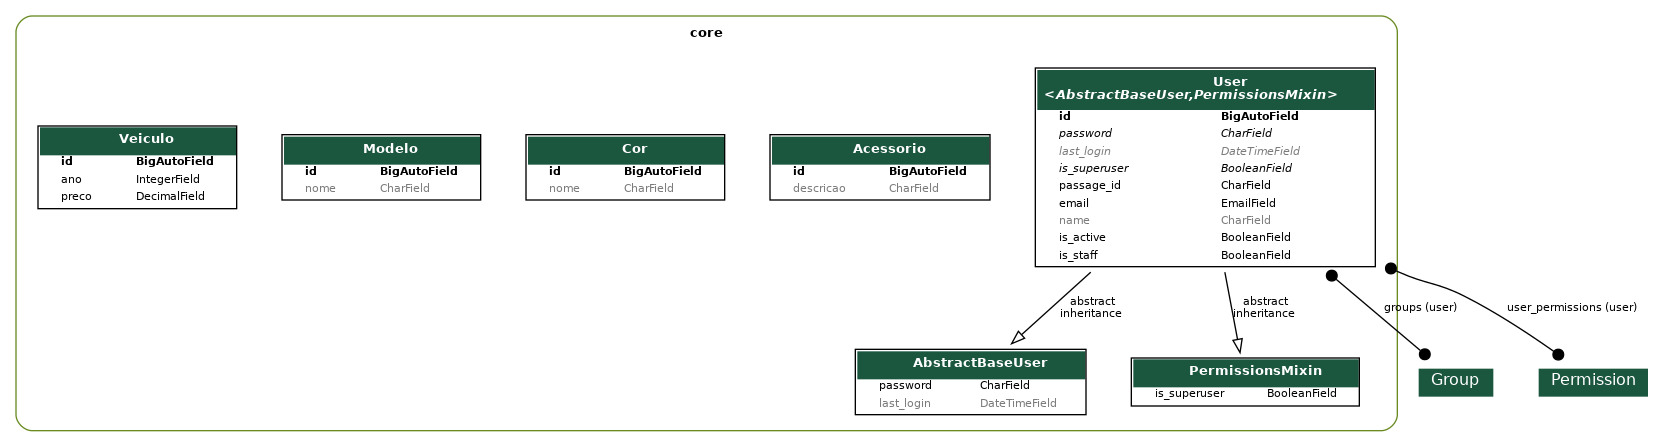
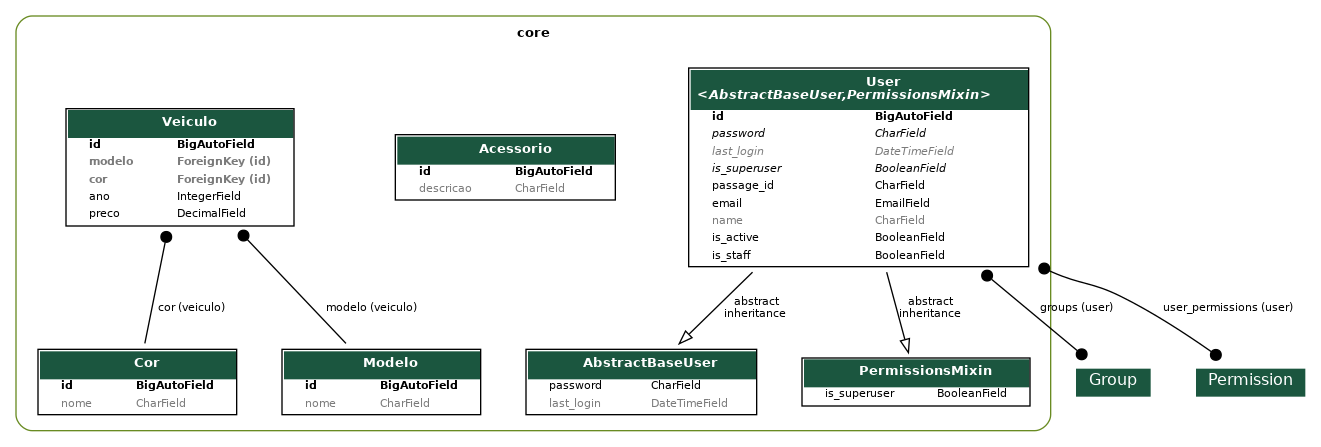
feat: inclusão do relacionamento de Veiculo com Modelo e Cor

diff --git a/core/migrations/0011_veiculo_cor_veiculo_modelo.py b/core/migrations/0011_veiculo_cor_veiculo_modelo.py
@@ -1,0 +1,24 @@
+# Generated by Django 5.1.7 on 2025-04-25 18:08
+
+import django.db.models.deletion
+from django.db import migrations, models
+
+
+class Migration(migrations.Migration):
+
+    dependencies = [
+        ('core', '0010_veiculo_remove_modelo_categoria_remove_modelo_marca'),
+    ]
+
+    operations = [
+        migrations.AddField(
+            model_name='veiculo',
+            name='cor',
+            field=models.ForeignKey(blank=True, null=True, on_delete=django.db.models.deletion.PROTECT, related_name='veiculos', to='core.cor'),
+        ),
+        migrations.AddField(
+            model_name='veiculo',
+            name='modelo',
+            field=models.ForeignKey(blank=True, null=True, on_delete=django.db.models.deletion.PROTECT, related_name='veiculos', to='core.modelo'),
+        ),
+    ]

diff --git a/core/migrations/0012_alter_veiculo_cor_alter_veiculo_modelo.py b/core/migrations/0012_alter_veiculo_cor_alter_veiculo_modelo.py
@@ -1,0 +1,24 @@
+# Generated by Django 5.1.7 on 2025-04-25 18:09
+
+import django.db.models.deletion
+from django.db import migrations, models
+
+
+class Migration(migrations.Migration):
+
+    dependencies = [
+        ('core', '0011_veiculo_cor_veiculo_modelo'),
+    ]
+
+    operations = [
+        migrations.AlterField(
+            model_name='veiculo',
+            name='cor',
+            field=models.ForeignKey(blank=True, null=True, on_delete=django.db.models.deletion.PROTECT, related_name='veiculo', to='core.cor'),
+        ),
+        migrations.AlterField(
+            model_name='veiculo',
+            name='modelo',
+            field=models.ForeignKey(blank=True, null=True, on_delete=django.db.models.deletion.PROTECT, related_name='veiculo', to='core.modelo'),
+        ),
+    ]

diff --git a/core/models/veiculo.py b/core/models/veiculo.py
@@ -1,6 +1,10 @@
 from django.db import models
+from .cor import Cor
+from .modelo import Modelo
 
 class Veiculo(models.Model):
+    modelo = models.ForeignKey(Modelo, on_delete=models.PROTECT, related_name="veiculo", null=True, blank=True)
+    cor = models.ForeignKey(Cor, on_delete=models.PROTECT, related_name="veiculo", null=True, blank=True)
     ano = models.IntegerField(null=True, default=0)
     preco = models.DecimalField(max_digits=10,decimal_places=2, null=True, default=0)
 
